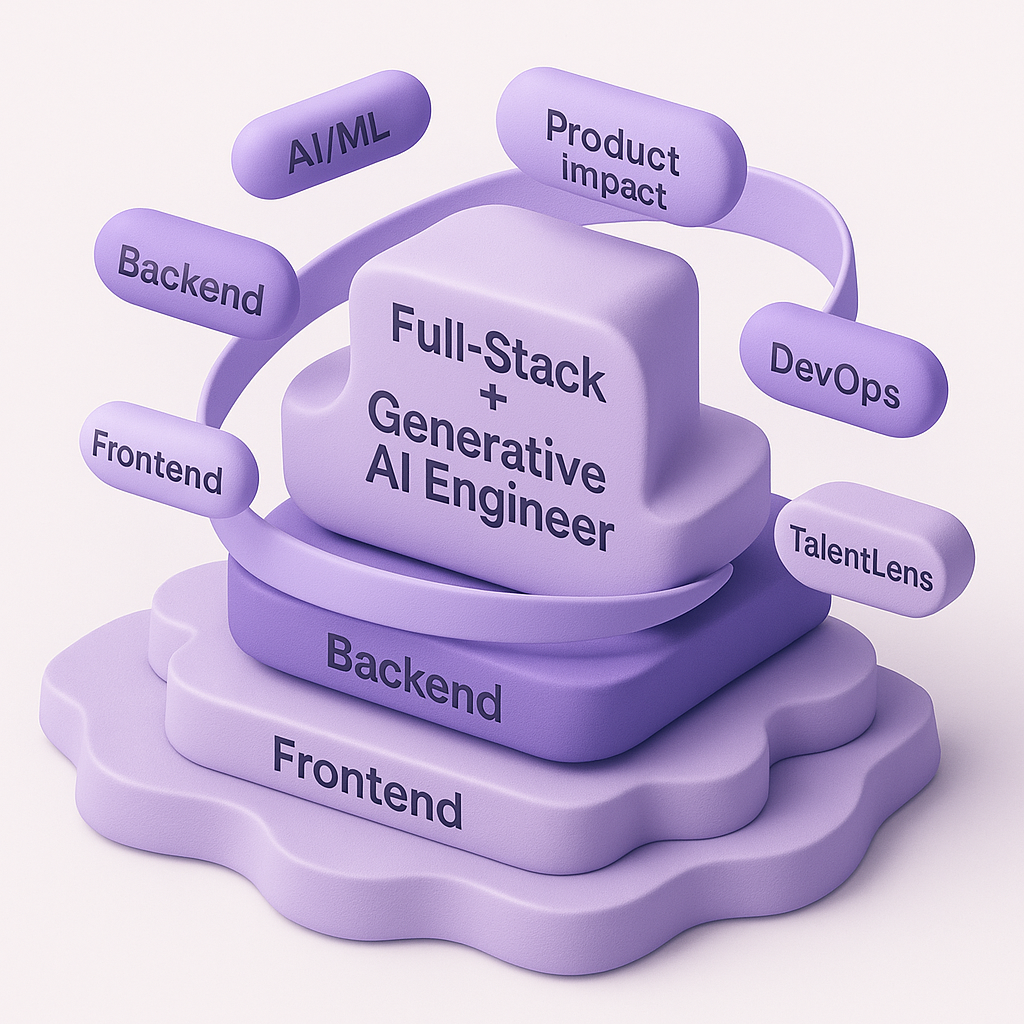
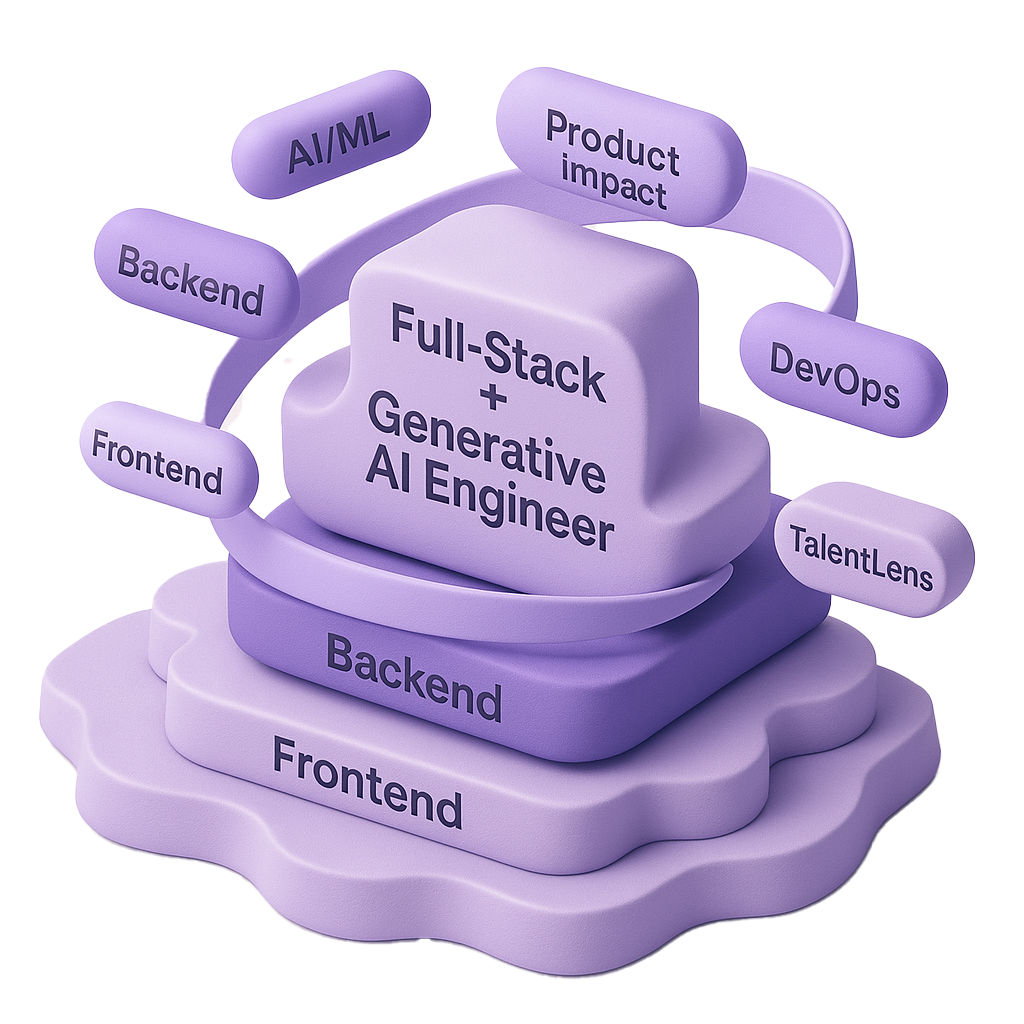
fix: updated image

diff --git a/src/components/Body/About.tsx b/src/components/Body/About.tsx
@@ -4,7 +4,7 @@ import Image from "next/image";
 import profile1 from "../../../public/profile1.jpg";
 import profile2 from "../../../public/profile2.jpg";
 import cat from "../../../public/cat.jpg";
-import architechure from "../../../public/tech1.png";
+import architecture from "../../../public/tech1.png";
 import { EmojiNatureRounded, StarRounded } from "@mui/icons-material";
 const About = () => {
   return (
@@ -110,7 +110,7 @@ const About = () => {
           </div>
           <div className="pl-8 py-2 flex item-center justify-center">
             <Image
-              src={architechure}
+              src={architecture}
               width={500}
               height={200}
               alt=""
